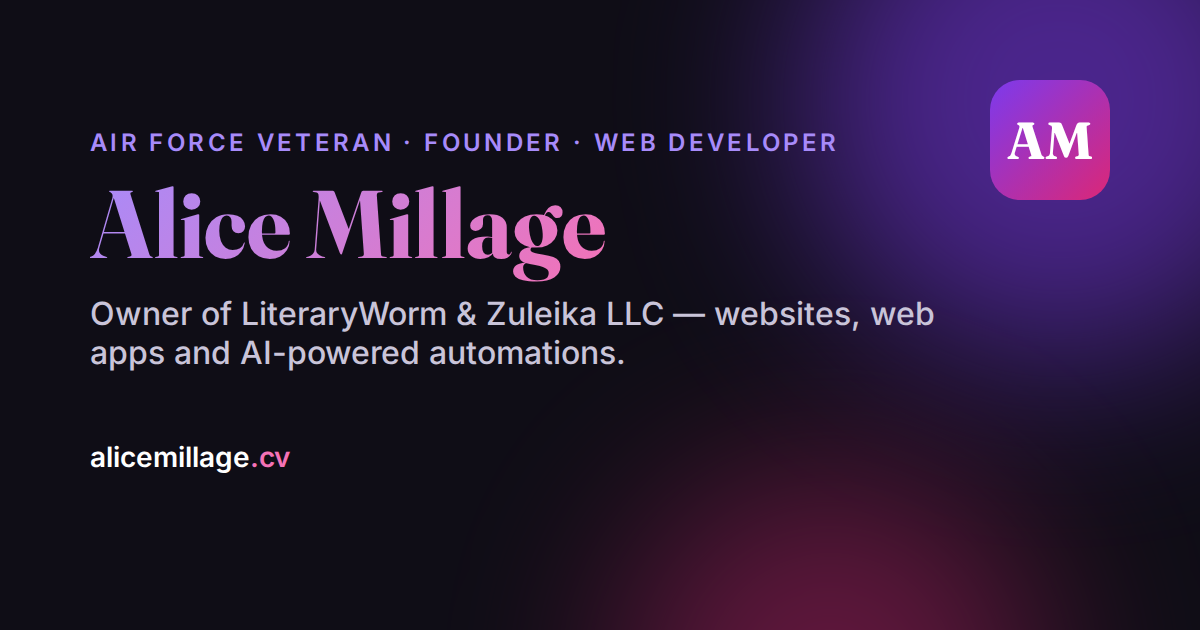
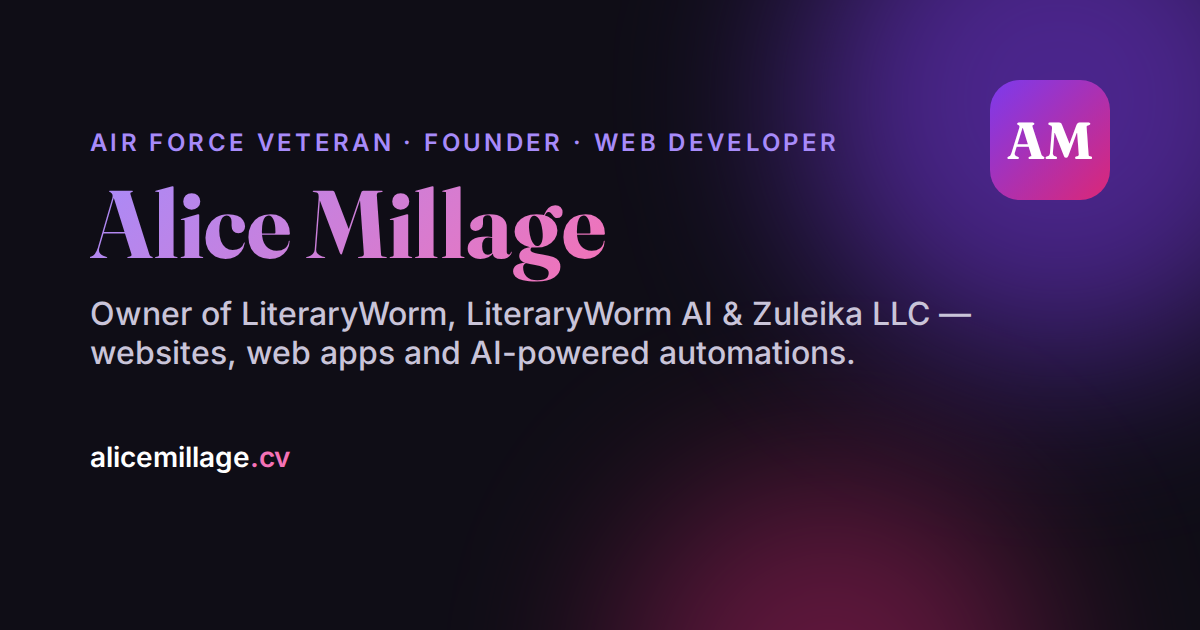
Sharing image: name LiteraryWorm AI

Changed region(s): [[0.0617, 0.4825, 0.8017, 0.6032]]

diff --git a/tests/site.test.js b/tests/site.test.js
@@ -82,6 +82,10 @@ describe('education', () => {
     expect(resume).toContain('<li><b>LiteraryWorm AI</b> — React, TypeScript, Vite, Supabase, Vercel, Stripe, Claude API, OpenAI</li>');
   });
 
+  test('the sharing image names LiteraryWorm AI', () => {
+    expect(read('assets/src/og-image.html')).toContain('Owner of LiteraryWorm, LiteraryWorm AI &amp; Zuleika LLC');
+  });
+
   test('the résumé contact line links literaryworm.net', () => {
     const contact = read('assets/src/resume.html').match(/<div class="contact">([\s\S]*?)<\/div>/)[1];
     expect(contact).toContain('<a href="https://literaryworm.net">literaryworm.net</a>');

diff --git a/assets/src/og-image.html b/assets/src/og-image.html
@@ -32,7 +32,7 @@
   <div class="mark">AM</div>
   <p class="eyebrow">Air Force Veteran · Founder · Web Developer</p>
   <h1><span>Alice Millage</span></h1>
-  <p class="sub">Owner of LiteraryWorm &amp; Zuleika LLC — websites, web apps and AI-powered automations.</p>
+  <p class="sub">Owner of LiteraryWorm, LiteraryWorm AI &amp; Zuleika LLC — websites, web apps and AI-powered automations.</p>
   <p class="url">alicemillage<b>.cv</b></p>
 </body>
 </html>
